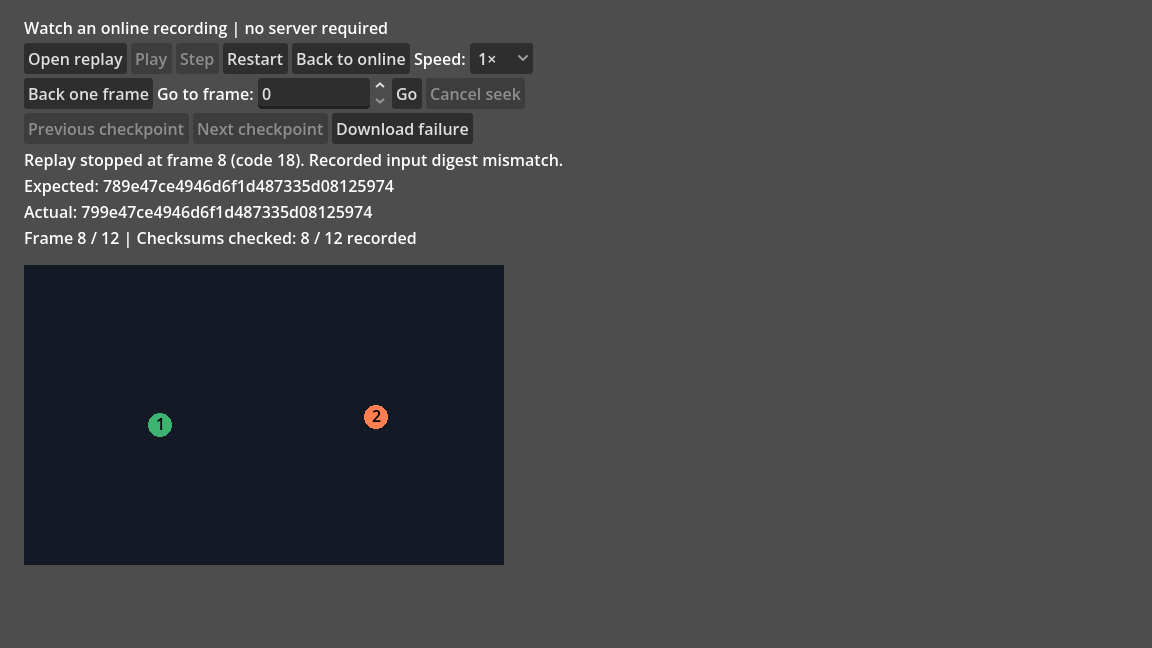
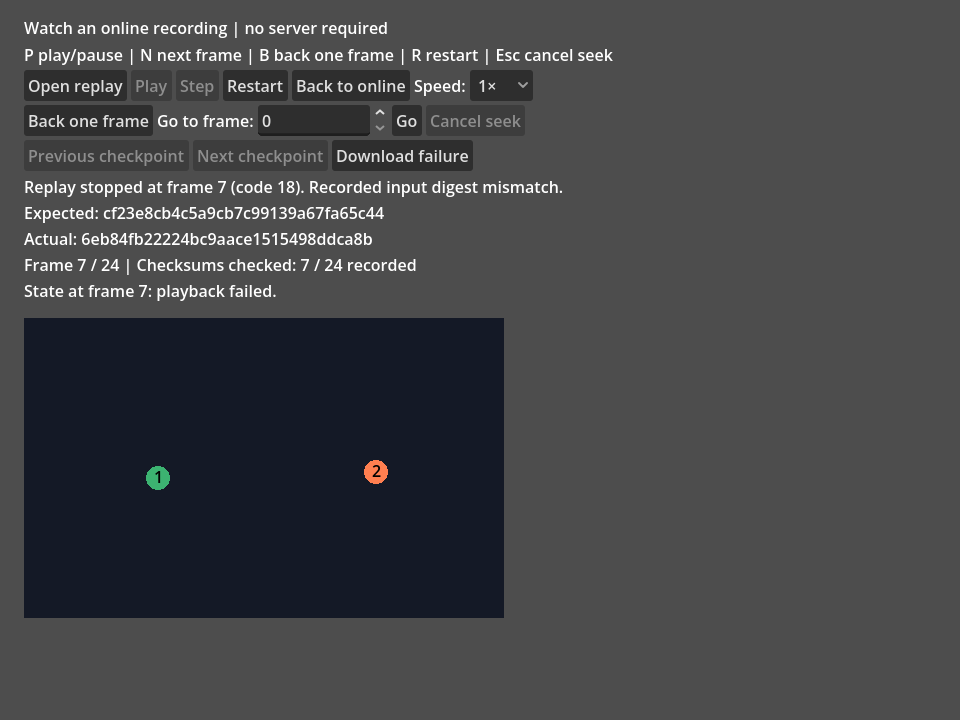
Improve replay controls and stalled retries (#242)
DISCLOSURE: LLM-GENERATED TEXT

**Why:** Clients need easier replay inspection and reliable input and
spectator retries.

**What:**

- Add keyboard replay controls while preserving text entry and file
selection.
- Retry stalled peer steps with retained local input samples.
- Share authenticated obsolete spectator row handling across byte
transports.

Advances #40, #45, #47 and #131.

Replay viewer before and after:

| Before | After |
| --- | --- |
| ![Previous replay
viewer](https://raw.githubusercontent.com/Ambiguous-Interactive/fortress-rollback-godot/715ff52dbdb20f1987a95579755082e3b98324f5/docs/images/replay-failure.png)
| ![Replay keyboard
controls](https://raw.githubusercontent.com/Ambiguous-Interactive/fortress-rollback-godot/0503e3571ca7a51db958f7398833000a2fe9aee6/docs/images/replay-failure.png)
|

diff --git a/scripts/reference/ownership_probes.py b/scripts/reference/ownership_probes.py
@@ -76,7 +76,7 @@ EXPECTED.update({
     'res://tests/unit/test_replay_checkpoints.gd': {'cached_navigation', 'bounded_cache', 'restore_failures', 'checkpoint_callbacks'},
     'res://tests/unit/test_spectator_stream.gd': {'wire_golden', 'byte_delivery', 'malformed', 'authentication', 'negotiation',
         'lifetime_and_timeout', 'clean_tail', 'bounds', 'busy', 'keepalive', 'viewer_lifetime', 'viewer_lifetime_control',
-        'policy_preserved', 'replaced_viewer', 'wide_shapes', 'offer_lifecycle', 'closed_input_duplicates', 'initial_state_agreement'},
+        'policy_preserved', 'replaced_viewer', 'wide_shapes', 'offer_lifecycle', 'closed_input_duplicates', 'initial_state_agreement', 'obsolete_rows'},
     'res://tests/unit/test_driver_callback_signatures.gd': {'arity', 'optional', 'diagnostic', 'argument_types'},
     'res://tests/unit/test_driver_script_view_types.gd': {'driver', 'diagnostic', 'replay'},
     'res://tests/unit/test_replay_diagnostics.gd': {'playback_evidence', 'restore_evidence', 'viewer_evidence', 'boundary_validation'},
@@ -84,7 +84,7 @@ EXPECTED.update({
     'res://tests/unit/test_spectator_policy.gd': {
         'confirmation_policy', 'playback_events', 'failure_events', 'empty_end_and_reentry', 'completion_status', 'gapped_end'},
     'res://tests/unit/test_spectator_publisher.gd': {'retained_publication', 'clean_end', 'lifetime_and_busy'},
-    'res://tests/unit/test_replay_speed.gd': {'cadence', 'controls', 'failure', 'scene_speed', 'backward_step', 'scene_backward_step'},
+    'res://tests/unit/test_replay_speed.gd': {'cadence', 'controls', 'failure', 'scene_speed', 'backward_step', 'scene_backward_step', 'keyboard_controls'},
 })
 EXPECTED['res://tests/unit/test_driver_recovery.gd'] = {
     'final_history', 'staged_sample', 'failures', 'guards', 'expert_parity', 'matching_tail', 'boundary_checksum', 'client_history'}
@@ -119,7 +119,7 @@ EXPECTED['res://tests/unit/test_peer_drop_history.gd'] = {
 EXPECTED['res://tests/unit/test_history_backfill.gd'] = {
     'overlap_suffix', 'atomic_refusal', 'wrap_floor', 'prediction', 'session_fences', 'session_repair'}
 EXPECTED['res://tests/unit/test_driver_external_parity.gd'] = {'immediate', 'delayed_bursts'}
-EXPECTED['res://tests/unit/test_driver_peer_parity.gd'] = {'two_peers', 'multiple_local_slots', 'eight_peers', 'observer_controls', 'partial_publication'}
+EXPECTED['res://tests/unit/test_driver_peer_parity.gd'] = {'two_peers', 'multiple_local_slots', 'eight_peers', 'observer_controls', 'partial_publication', 'retained_retry'}
 EXPECTED['res://tests/unit/test_peer_drop_backfill.gd'] = {
     'remote_donor', 'loss_reorder', 'conflicting_duplicate', 'malformed_chunk', 'wrong_donor', 'lost_history_timeout',
     'resource_limit', 'multiple_target_slots', 'no_donor', 'conflicting_overlap'}

diff --git a/docs/peer-session.md b/docs/peer-session.md
@@ -25,7 +25,7 @@ remains permitted. This restriction counts endpoint identities, not player slots
 | `poll(now_us, tokens = [])` | Service every endpoint with current receipt gossip; supply fresh retry tokens during synchronization. |
 | `receive(packet, attributed_sender, now_us, next_token = null)` | Route actual bytes using independently attributed sender identity. |
 | `receive_and_poll(packet, attributed_sender, now_us, next_token = null, tokens = [])` | Receive and service timers using the receipt gossip from the start of the operation. |
-| `step(now_us, local_inputs)` | Existing driver `StepResult`; submit every local slot at the current sample frame. |
+| `step(now_us, local_inputs)` | Existing driver `StepResult`; submit unstaged local slots at the current sample frame. |
 | `scheduled_local_input(player)` | Owned current staged sample, including across prediction stalls and partial network publication. |
 | `close(now_us, reason = 0)` | Queue redundant goodbye packets and halt the fixed-membership game. |
 | `status()` | Existing core status, including frame, confirmation and termination reason. |
@@ -47,12 +47,15 @@ and retries after synchronization. Malformed bytes, wrong session/sender, known
 connection mismatch and inputs claiming another player's slot remain errors.
 This permits independent handshake completion over unordered delivery.
 
-`step` requires the complete local sample set and validates it before submission.
+`step` requires a current sample for every local slot that is not already staged.
+An empty list retries all staged slots; a partial list may omit retained slots.
+It validates the complete effective local set before submitting any new sample.
 It transmits the actual delayed frame returned by the core, retaining the packed
 sample in every endpoint before advancing the game. `NOT_SYNCHRONIZED` means the
 handshake gate remains closed. `NETWORK_BACKPRESSURE` preserves the current game
 frame and accepted sample; drain queues or recover ACKs, then retry identical
-inputs. `PREDICTION_STALL` preserves the current frame but can still repair old
+inputs, or pass an empty list once every local slot is staged.
+`PREDICTION_STALL` preserves the current frame but can still repair old
 predictions and save that boundary. Save/load callbacks must therefore tolerate
 repeated frames. Changing an already submitted sample is rejected.
 
@@ -67,8 +70,8 @@ unconfigured peer returns `NOT_CONFIGURED`.
 
 ```gdscript
 var retained: Types.InputResult = peer.scheduled_local_input(player)
-var bytes: PackedByteArray = read_buttons() if retained.code == Types.Code.MISSING_LOCAL_INPUT else retained.bytes
-samples.append(Driver.LocalInput.new(player, peer.status().current_frame, bytes))
+if retained.code == Types.Code.MISSING_LOCAL_INPUT:
+	samples.append(Driver.LocalInput.new(player, peer.status().current_frame, read_buttons()))
 ```
 
 Use this loop only for configured local slots, after checking the peer is

diff --git a/PLAN.md b/PLAN.md
@@ -97,6 +97,7 @@ The library supplies orchestration, validation and sync-test tooling.
 Request-scoped inputs support owned reads or checked copies into exact-width game scratch buffers.
 Queue history uses native byte copying with shared immutable private storage; submitted and returned buffers remain isolated.
 Peer clients can read owned staged local samples to retry stalled steps without resampling.
+Callback and expert peer steps can omit retained local slots while requiring every unstaged slot before mutation.
 They can also export owned finalized input rows for confirmed effects and spectator publication without recording.
 Replay failure evidence identifies the first failed game request and comparison domain.
 Replay inspection distinguishes recorded checksum validation at the displayed state from lifetime coverage and cached-state comparisons.
@@ -104,7 +105,8 @@ Explicit finalized-boundary capture adds FRRP v6 terminal checksums; ordinary v4
 Owned replay prefixes only trim existing storage; they cannot pad missing gameplay or checksum bytes into portable evidence.
 Validated terminal states share the bounded checkpoint cache, allowing direct return to a verified ending after backward inspection.
 Spectator startup traces compare actual pinned Rust and Godot execution against a scoped runtime-aligned model relation.
-Authenticated spectator ingress ignores validated duplicates after viewed history expires without renewing host liveness.
+Authenticated spectator byte streams ignore validated duplicates after viewed history expires without renewing host liveness.
+The same policy applies to custom transports and the SignalFish adapter.
 The [queue append benchmark](docs/experiments/input-queue-performance.md) records the measured scope and narrow-input noise.
 Godot physics and arbitrary scene state are not made deterministic by rollback.
 
@@ -415,6 +417,7 @@ Pausing or stepping a replay validates the displayed boundary and its selected i
 Expert replay clients can validate that same paused boundary through a save-only request batch without consuming input.
 Expert checkpoint navigation now shares callback restoration through ordered load/save requests, with exact snapshot validation before committing the selected frame.
 Viewer checkpoint controls use the owned inventory of retained validated boundaries and cannot bypass playback failure.
+Keyboard playback and frame inspection share the visible controls and preserve frame-entry focus.
 Repeated playback compares canonical bytes and checksums against retained boundaries even without recorded state checksums.
 Replay checkpoint acceleration is bounded and optional; repeated navigation reuses validated
 in-memory snapshots without changing the portable file format. Viewer completion distinguishes a verified final state from historical files without terminal checksums.

diff --git a/.llm/retrospectives/2026-10-27-peer-retries-and-replay-keys.md b/.llm/retrospectives/2026-10-27-peer-retries-and-replay-keys.md
@@ -1,0 +1,36 @@
+# Retrospective: peer retries and replay keys
+
+## Work under review
+
+Session 101 advances driver retries (#40), replay inspection (#45), and authenticated
+spectator duplicates (#47/#131). Production changes stay small and share existing
+publication, playback and stream validation paths. Fresh reviewers receive scoped
+diffs and contracts without implementation rationale.
+
+## Findings and actions
+
+| Finding | Evidence | Action |
+| --- | --- | --- |
+| GUI focus cannot be qualified by calling a handler during unit-runner initialization. | `tests/runner/run_tests.gd:50` runs suites during initialization; the attempted focus case produced engine errors before controls entered the tree. Deferred probes on both pins pass ten actual routing/focus/dialog checks. | Keep deterministic action tests; validate actual routing in a deferred scene. Add the distinction to the existing infrastructure reference. |
+| Transport-specific error masking leaves custom transports with different duplicate semantics. | `spectator_stream.gd` returned old-row errors while the relay normalized them. The new obsolete-row case has three intended baseline failures. | Move the policy behind authentication and lifetime gates in the shared stream; remove relay masking. |
+| New peer retry behavior must prove both original input identity and partial publication. | `test_driver_peer_parity.gd` compares callback/expert requests, encoded packets and independent original state with one/two local handles. Baseline has sixteen intended failures. | Extend the existing publication workload rather than add a parallel fixture. |
+
+## Evidence
+
+Machine-local log: `progress/session-101-client-progress.md`.
+Native action suites and deferred UI probes cover both Godot pins. Runtime logs:
+`progress/replay-keyboard-runtime-43.log` and `progress/replay-keyboard-runtime-472.log`.
+The browser declaration/copy inventory guards pass with all new cases registered.
+The screenshot was rendered after layout and inspected at 960 by 720.
+
+## Prune ledger
+
+Updated the existing testing infrastructure reference; no new skill or duplicate
+knowledge page. Removed the invalid focus unit case before qualification. Replaced
+adapter-local masking with one stream-owned policy. Existing historical evidence
+remains valid; no other guidance is retired.
+
+## Outcome
+
+State: `findings-acted`. Complete source/platform replay acceptance, deployed
+spectator routing, and broader driver prerequisites remain in their parent issues.

diff --git a/CHANGELOG.md b/CHANGELOG.md
@@ -4,6 +4,10 @@
 
 ### Added
 
+- Add keyboard replay inspection: P plays or pauses, N/B step forward/backward, R restarts, and Esc cancels a seek. Text entry and file chooser input remain available.
+
+- Add empty and partial peer input retries using retained local samples. Callback and expert clients can resume stalled publication without rebuilding submitted inputs.
+
 - Add `peer.confirmed_inputs(frame)` for owned finalized input rows. Network clients can drive confirmed effects and spectator publication without enabling recording.
 
 - Add final replay checkpoints after successful terminal-state validation. Return to the verified ending after backward inspection without replaying the tail; checkpoint memory stays bounded.
@@ -196,6 +200,8 @@
 - Add a bounded raw input queue with owned bytes, frame delay, and repeat-last prediction.
 
 ### Fixed
+
+- Fix custom spectator byte transports rejecting authenticated rows after playback history expires. Obsolete rows preserve playback and cannot renew host liveness.
 
 - Fix SignalFish transport cleanup requested from callbacks. Direct, relay and fallback queues and relay observers are released when the active poll returns.
 

diff --git a/docs/online-example.md b/docs/online-example.md
@@ -179,6 +179,8 @@ After leaving the room, press **Watch replay**, then **Open replay** and choose 
 `fortress-online.frrp` file. Native builds use a file dialog; browsers use a local
 file chooser without uploading the file or using browser storage. Playback needs
 no SDK or server. Press **Play / Pause**, **Step**, or **Restart** to inspect the game.
+Keyboard controls: **P** plays or pauses, **N** steps forward, **B** steps backward,
+**R** restarts, and **Esc** cancels a seek. Shortcuts preserve text entry and file chooser input; modified and held-key repeats are ignored.
 Use **Speed** to watch at ¼×, ½×, 1×, 2× or 4×. Every recorded frame and available checksum
 is still processed; fast playback advances at most four frames per tick. **Step** always
 advances exactly one frame and finishes paused. Step and Pause validate the displayed

diff --git a/.llm/skills/testing/references/infrastructure.md b/.llm/skills/testing/references/infrastructure.md
@@ -84,6 +84,12 @@ a missing-file test can observe a peer's recreated or truncated file instead.
 `OS.get_process_id()` is unavailable on Web; use it only in native branches.
 Web fixtures use the page's isolated filesystem and keep equivalent assertion counts.
 
+The native unit runner executes suites during `SceneTree._initialize()`, before
+nodes acquire live GUI focus. Direct handler calls can verify action gates, but
+cannot prove viewport routing, editable focus or popup consumption. Exercise those
+contracts in a deferred live scene with real input events; inspect rendering after
+layout settles. Keep native/Web assertion inventories equal when platform UI differs.
+
 ## Faster local iteration
 
 `make test-godot` runs each suite in its own fresh-process pair across CPUs, slowest first from `.cache/tests/durations.json`;

diff --git a/docs/integration.md b/docs/integration.md
@@ -559,6 +559,8 @@ Driver delay changes return `BUSY` inside callbacks and completion handlers.
 
 After a stalled step, `driver.scheduled_local_input(player)` returns an owned retained sample, or `MISSING_LOCAL_INPUT` when none is staged.
 Its `frame` includes input delay; it is not the next `LocalInput.sample_frame`. Retry with an empty input list when all local samples are already staged.
+Peer `step()` and expert `begin_step()` accept the same empty retry. Partial lists may omit retained local slots;
+every unstaged local slot still needs a sample, and an incomplete effective list stages nothing.
 Successful advancement releases those samples. Keep sampling a new local input only when the retained sample is absent.
 
 Change delay between steps or while stalled, never from a game callback. Each added frame repeats the

diff --git a/docs/spectators.md b/docs/spectators.md
@@ -317,6 +317,9 @@ signed with another key and packets for another agreed match return
 `PROTOCOL_FAILED` without changing the session and without refreshing host
 liveness. Conflicting accepted history terminates the viewer. Reordering and
 identical retained duplicates use the same bounded row ring as direct delivery.
+Authenticated rows older than playback whose history has expired return `OK`
+without changing playback or renewing host liveness. This policy applies to
+every byte transport; retained conflicting rows still terminate the viewer.
 No extra receive queue is retained. On `BUSY` or `NETWORK_BACKPRESSURE`, keep the
 exact packet and retry after the active batch or playback frees capacity.
 
